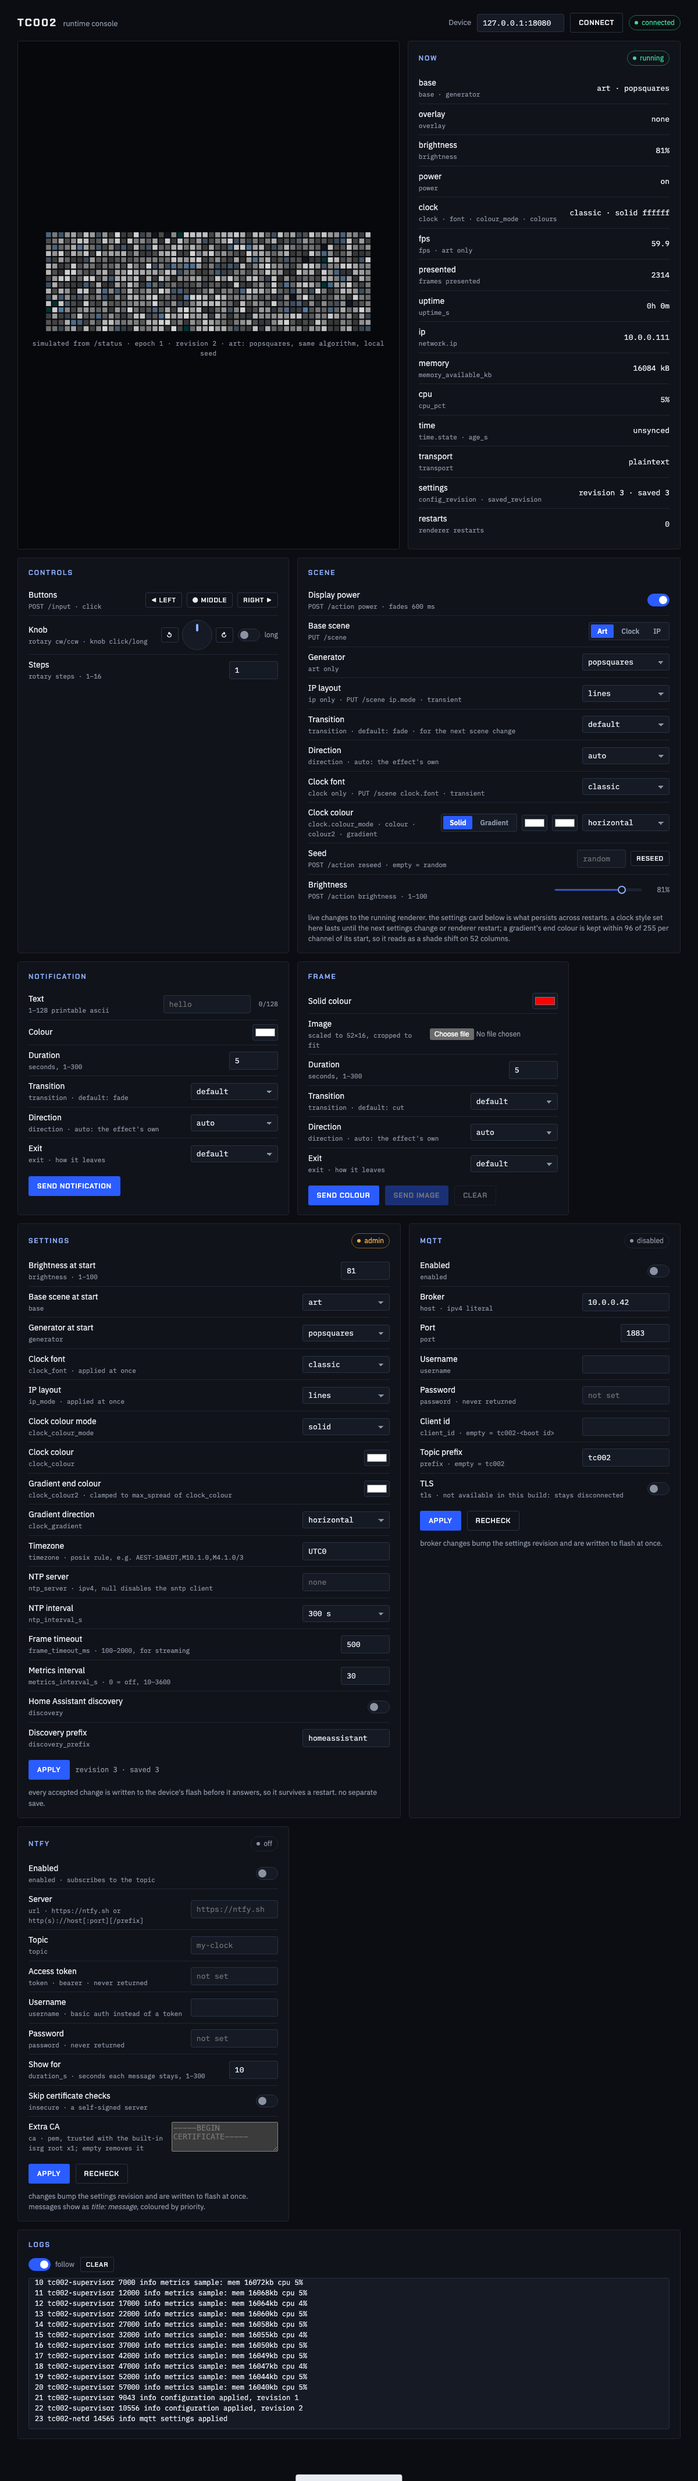
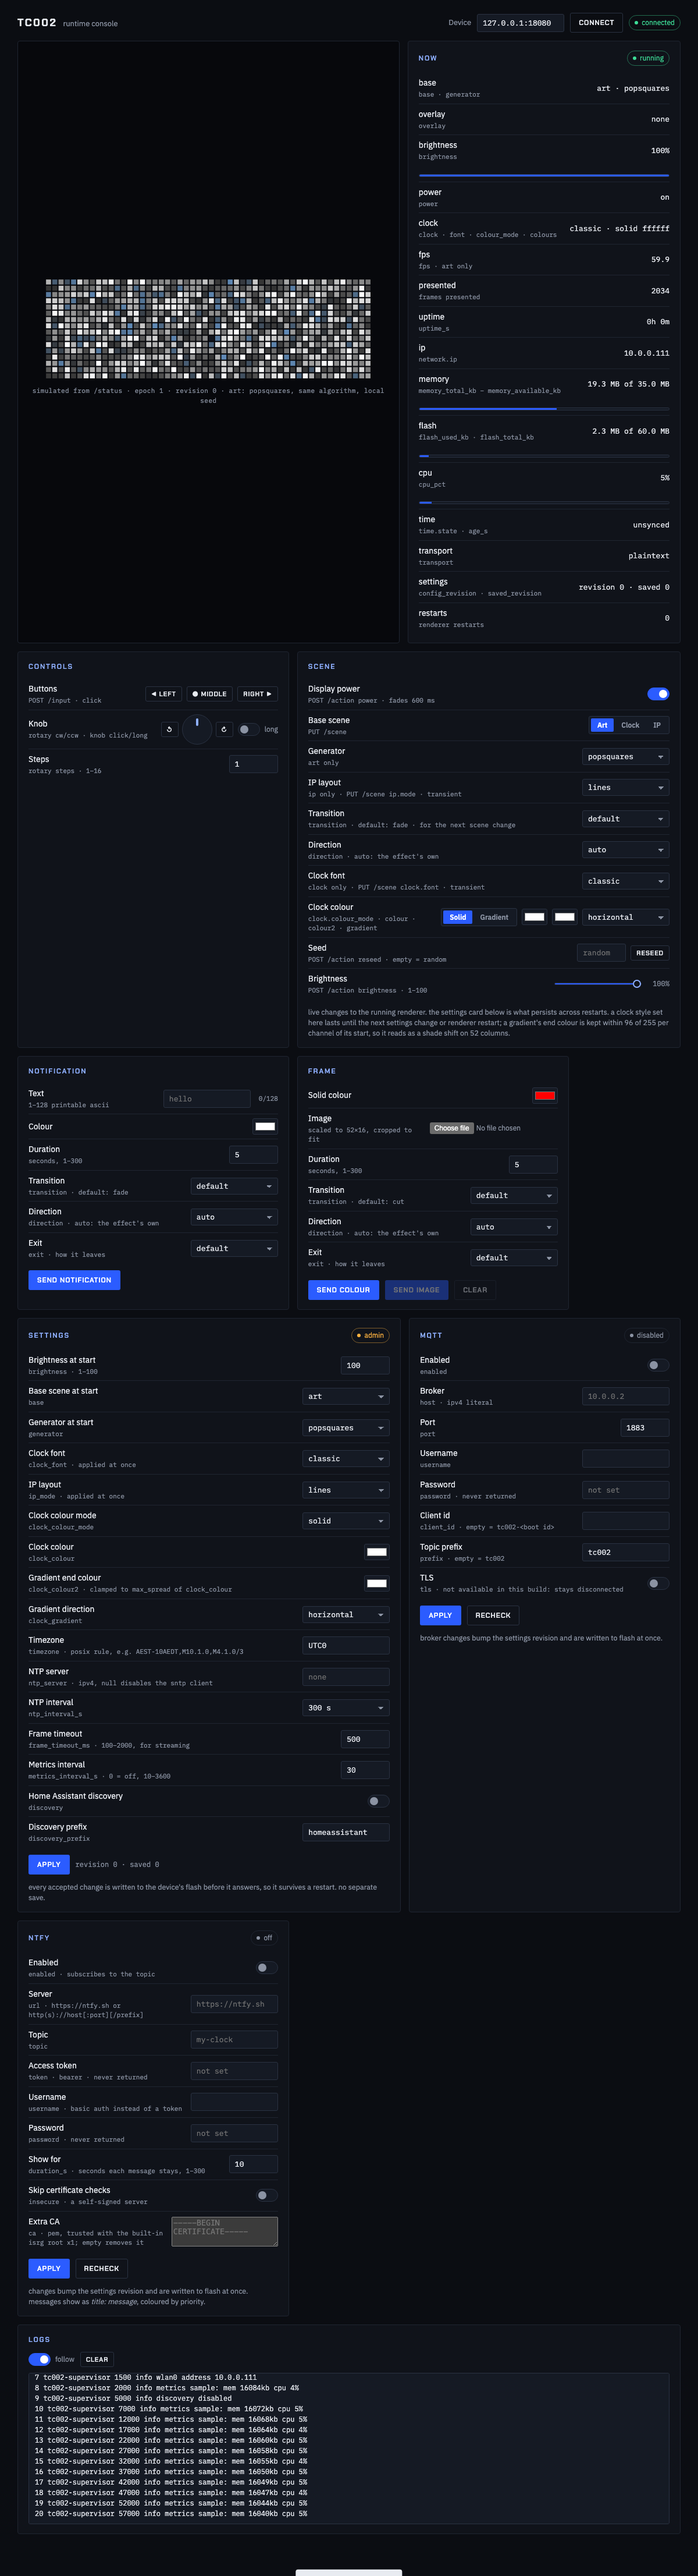
panel-v2: bars in the now card for brightness, cpu, memory and flash
the runtime reports every used figure with the total it is a fraction of, so the four readings that
are a fraction of something get a bar under them: brightness and cpu are percentages already,
memory is memory_total_kb minus memory_available_kb over the total, and flash is flash_used_kb over
flash_total_kb. the memory and flash rows read "19.3 MB of 35.0 MB" rather than a bare available
figure. the memory, flash and cpu bars turn amber at 75 per cent and red at 90; brightness is a
setting, not pressure, so it stays plain. a device that reports no total draws no bar and the
memory row falls back to the free figure, so an older runtime still reads sensibly.

the memory percentage matches the home assistant template the runtime publishes, so a dashboard and
this page agree. the bars are aria-hidden: the reading sits in the text beside them.

the mock reports the six new fields with a tc002's magnitudes. tests: the status carries a total for
every used figure, and in headless chrome each bar's fill matches the fraction the device reports,
computed from /status rather than from the mock's constants.

Claude-Session: https://claude.ai/code/session_0154EZ6adqhZyrJZmuD4WZcY

diff --git a/panel-v2/index.html b/panel-v2/index.html
@@ -139,6 +139,10 @@ input[type=color]{width:44px;height:28px;padding:2px;border:1px solid var(--line
 input[type=file]{font:12px var(--body);color:var(--muted);max-width:220px}
 .counter{font-family:var(--data);font-size:11px;color:var(--muted);margin-left:6px}
 .inline{display:flex;align-items:center;gap:8px;flex-wrap:wrap}
+.bar{flex:1 0 100%;height:5px;margin:7px 0 1px;border-radius:3px;background:var(--surface-2);border:1px solid var(--line-2);overflow:hidden}
+.bar>span{display:block;height:100%;background:var(--accent);border-radius:3px 0 0 3px;transition:width .25s}
+.bar.warn>span{background:var(--warn)}
+.bar.bad>span{background:var(--danger)}
 .rev{font-family:var(--data);font-size:12px;color:var(--muted)}
 .rev b{color:var(--warn);font-weight:600}
 .rev.bad b{color:var(--danger)}
@@ -420,18 +424,42 @@ async function command(method, path, makeBody, contentType, makeQuery) {
 }
 
 /* ---------- status polling and the now card ---------- */
+// kB as the device reports it, read as mb once it is worth it
+function dataSize(kb) {
+  if (kb == null) return '—';
+  return kb >= 1024 ? `${(kb / 1024).toFixed(1)} MB` : `${kb} kB`;
+}
+// a bar is drawn for a figure that is a fraction of something: {pct, tone}. `pressure` colours the
+// bar as it fills, for the metrics where full is bad; brightness is a setting, so it stays plain
+const pressure = pct => (pct >= 90 ? 'bad' : pct >= 75 ? 'warn' : '');
+const fraction = (used, total) => (typeof used === 'number' && typeof total === 'number' && total > 0 ? 100 * used / total : null);
+const memoryUsedKb = s => (typeof s.memory_total_kb === 'number' && typeof s.memory_available_kb === 'number'
+  ? s.memory_total_kb - s.memory_available_kb : null);
+
 const NOW_ROWS = [
   ['base', s => `${s.base}${s.base === 'art' ? ' · ' + s.generator : ''}`, 'base · generator'],
   ['overlay', s => s.overlay, 'overlay'],
-  ['brightness', s => `${s.brightness}%`, 'brightness'],
+  ['brightness', s => `${s.brightness}%`, 'brightness', s => ({ metric: 'brightness', pct: s.brightness })],
   ['power', s => s.power === undefined ? '—' : (s.power ? 'on' : 'off'), 'power'],
   ['clock', s => describeClock(s.clock), 'clock · font · colour_mode · colours'],
   ['fps', s => s.fps == null ? '—' : String(s.fps), 'fps · art only'],
   ['presented', s => String(s.presented), 'frames presented'],
   ['uptime', s => `${Math.floor(s.uptime_s / 3600)}h ${Math.floor(s.uptime_s / 60) % 60}m`, 'uptime_s'],
   ['ip', s => (s.network && s.network.ip) || 'none', 'network.ip'],
-  ['memory', s => `${s.memory_available_kb} kB`, 'memory_available_kb'],
-  ['cpu', s => s.cpu_pct == null ? '—' : `${s.cpu_pct}%`, 'cpu_pct'],
+  ['memory', s => {
+    const used = memoryUsedKb(s);
+    return used == null ? `${dataSize(s.memory_available_kb)} free` : `${dataSize(used)} of ${dataSize(s.memory_total_kb)}`;
+  }, 'memory_total_kb − memory_available_kb', s => {
+    const pct = fraction(memoryUsedKb(s), s.memory_total_kb);
+    return pct == null ? null : { metric: 'memory', pct, tone: pressure(pct) };
+  }],
+  ['flash', s => (typeof s.flash_used_kb === 'number' && typeof s.flash_total_kb === 'number'
+    ? `${dataSize(s.flash_used_kb)} of ${dataSize(s.flash_total_kb)}` : '—'), 'flash_used_kb · flash_total_kb', s => {
+    const pct = fraction(s.flash_used_kb, s.flash_total_kb);
+    return pct == null ? null : { metric: 'flash', pct, tone: pressure(pct) };
+  }],
+  ['cpu', s => s.cpu_pct == null ? '—' : `${s.cpu_pct}%`, 'cpu_pct',
+    s => (s.cpu_pct == null ? null : { metric: 'cpu', pct: s.cpu_pct, tone: pressure(s.cpu_pct) })],
   ['time', s => {
     if (!s.time) return '—';
     const age = typeof s.time.age_s === 'number' ? ` · ${s.time.age_s} s` : '';
@@ -450,12 +478,24 @@ function describeClock(c) {
 const sameClock = (a, b) => JSON.stringify(a || null) === JSON.stringify(b || null);
 function renderNow(s) {
   const box = $('now'); box.innerHTML = '';
-  for (const [label, fn, key] of NOW_ROWS) {
+  for (const [label, fn, key, barFn] of NOW_ROWS) {
     const row = document.createElement('div'); row.className = 'field';
     const lab = document.createElement('span'); lab.className = 'lab'; lab.textContent = label;
     const k = document.createElement('span'); k.className = 'key'; k.textContent = key; lab.append(k);
     const val = document.createElement('span'); val.className = 'val'; val.textContent = fn(s);
-    row.append(lab, val); box.append(row);
+    row.append(lab, val);
+    const bar = barFn && barFn(s);
+    if (bar) {
+      // the reading is already in the text beside it, so the bar is decorative to a screen reader
+      const track = document.createElement('div');
+      track.className = 'bar' + (bar.tone ? ' ' + bar.tone : '');
+      track.dataset.metric = bar.metric;
+      track.setAttribute('aria-hidden', 'true');
+      const fill = document.createElement('span');
+      fill.style.width = `${Math.max(0, Math.min(100, bar.pct))}%`;
+      track.append(fill); row.append(track);
+    }
+    box.append(row);
   }
   const r = $('renderer'); r.textContent = s.renderer;
   r.className = 'pill ' + (s.renderer === 'running' ? 'on' : s.renderer === 'none' ? 'off' : 'warn');

diff --git a/panel-v2/test_serve.py b/panel-v2/test_serve.py
@@ -321,6 +321,18 @@ class EndToEndTests(unittest.TestCase):
         self.assertNotEqual(st5["generator"], generator_before)
         self.assertEqual(st5["brightness"], st4["brightness"])
 
+    def test_status_carries_a_total_for_every_used_figure(self):
+        # a bar needs a denominator: the runtime reports memory, tmpfs and flash as used and total
+        # (RUNTIME.md, "what it samples")
+        _, st = self.call("GET", "status")
+        for key in ("memory_available_kb", "memory_total_kb", "tmpfs_total_kb", "flash_used_kb", "flash_total_kb"):
+            self.assertIsInstance(st.get(key), int, key)
+        self.assertGreater(st["memory_total_kb"], st["memory_available_kb"])
+        self.assertGreater(st["flash_total_kb"], st["flash_used_kb"])
+        self.assertGreaterEqual(st["tmpfs_total_kb"], st["tmpfs_used_kb"] or 0)
+        self.assertIn(st["cpu_pct"], range(0, 101))
+        self.assertIn(st["brightness"], range(1, 101))
+
     def test_logs_page_through_the_ring(self):
         status, doc = self.call("GET", "logs?after=0")
         self.assertEqual(status, 200)

diff --git a/panel-v2/mock-device.py b/panel-v2/mock-device.py
@@ -217,7 +217,10 @@ class Device:
                 "power": self.power,
                 "clock": dict(self.clock), "ip_mode": self.ip_mode,
                 "presented": self.presented(), "fps": fps, "uptime_s": int(time.monotonic() - self.started),
-                "memory_available_kb": 16084, "cpu_pct": 5, "restarts": self.restarts,
+                "memory_available_kb": 16084, "memory_total_kb": 35840, "memory_free_kb": 9216,
+                "tmpfs_used_kb": 1024, "tmpfs_total_kb": 17920,
+                "flash_used_kb": 2304, "flash_total_kb": 61440,
+                "cpu_pct": 5, "restarts": self.restarts,
                 "network": {"ip": "10.0.0.111"}, "time": {"state": "unsynced", "age_s": None},
                 "config_revision": self.config["revision"], "saved_revision": self.config["saved_revision"],
                 "transport": "plaintext", "mqtt": self.mqtt_status(), "ntfy": self.ntfy_doc()["status"],
